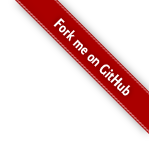
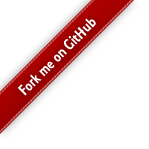
update github link (no ribbon)

diff --git a/index.html b/index.html
@@ -89,7 +89,8 @@
 
         <div id='about' class='span4'>
           <h1>About this App</h1>
-          <p>This is a demo of HTML5 Responsive Web Design...making the web app stretch to the dimensions of the screen.
+          <p><i><a href='http://github.com/mahemoff/musicmakes'>Fork me on GitHub</a></i></p>
+          <p>This is an open-source Single Page App, demonstrating HTML5 Responsive Web Design...making the web app stretch to the dimensions of the screen.
           And doing so in the context of HTML5 canvas graphics, which are used here to power the map. CSS3 is also 
           demonstrated in the lookup.</p>
           <p>The demo was prepared for the <a
@@ -130,8 +131,6 @@
         </div>
 
       </div>
-
-      <a href="http://github.com/mahemoff/musicmakes"><img class="github" src="icons/github.png" alt="Fork me on GitHub"></a>
 
   </div>
 

diff --git a/style/app.scss b/style/app.scss
@@ -72,7 +72,7 @@ $navratio: 1/2.6;
 }
 
 .github {
-  position: absolute; top: 0; right: 0; border: 0; z-index: 1500;
+  position: absolute; top: 0; left: 0; border: 0; z-index: 1500;
 }
 
 .hero-unit {

diff --git a/style/app.css b/style/app.css
@@ -54,7 +54,7 @@ body {
 .github {
   position: absolute;
   top: 0;
-  right: 0;
+  left: 0;
   border: 0;
   z-index: 1500; }
 
